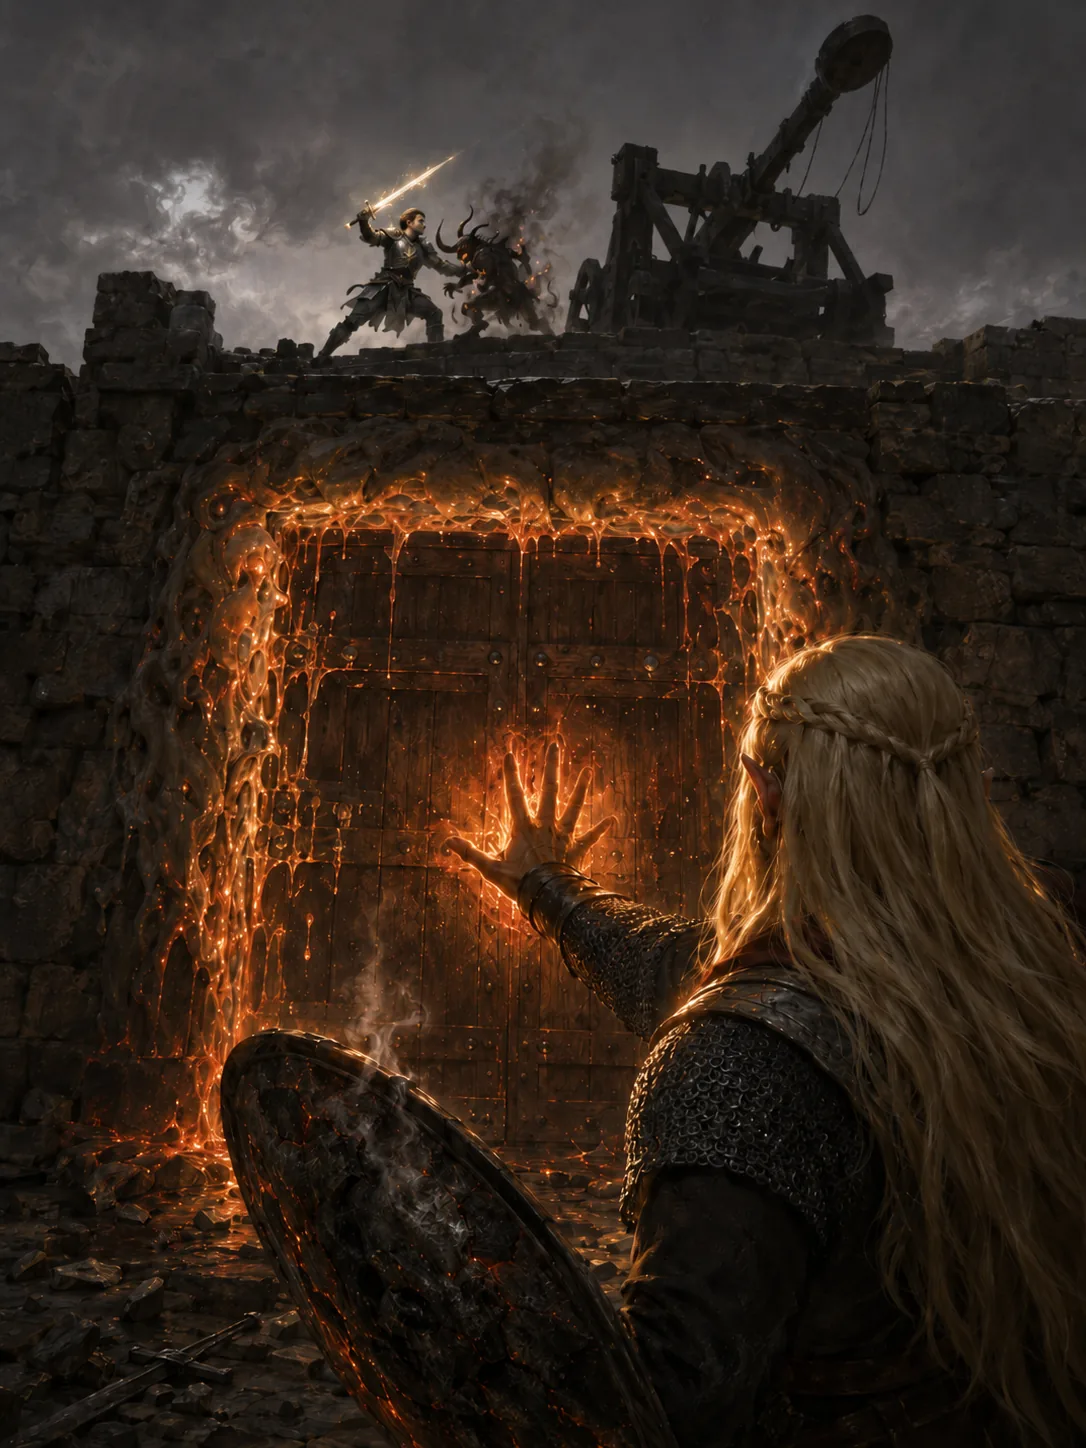
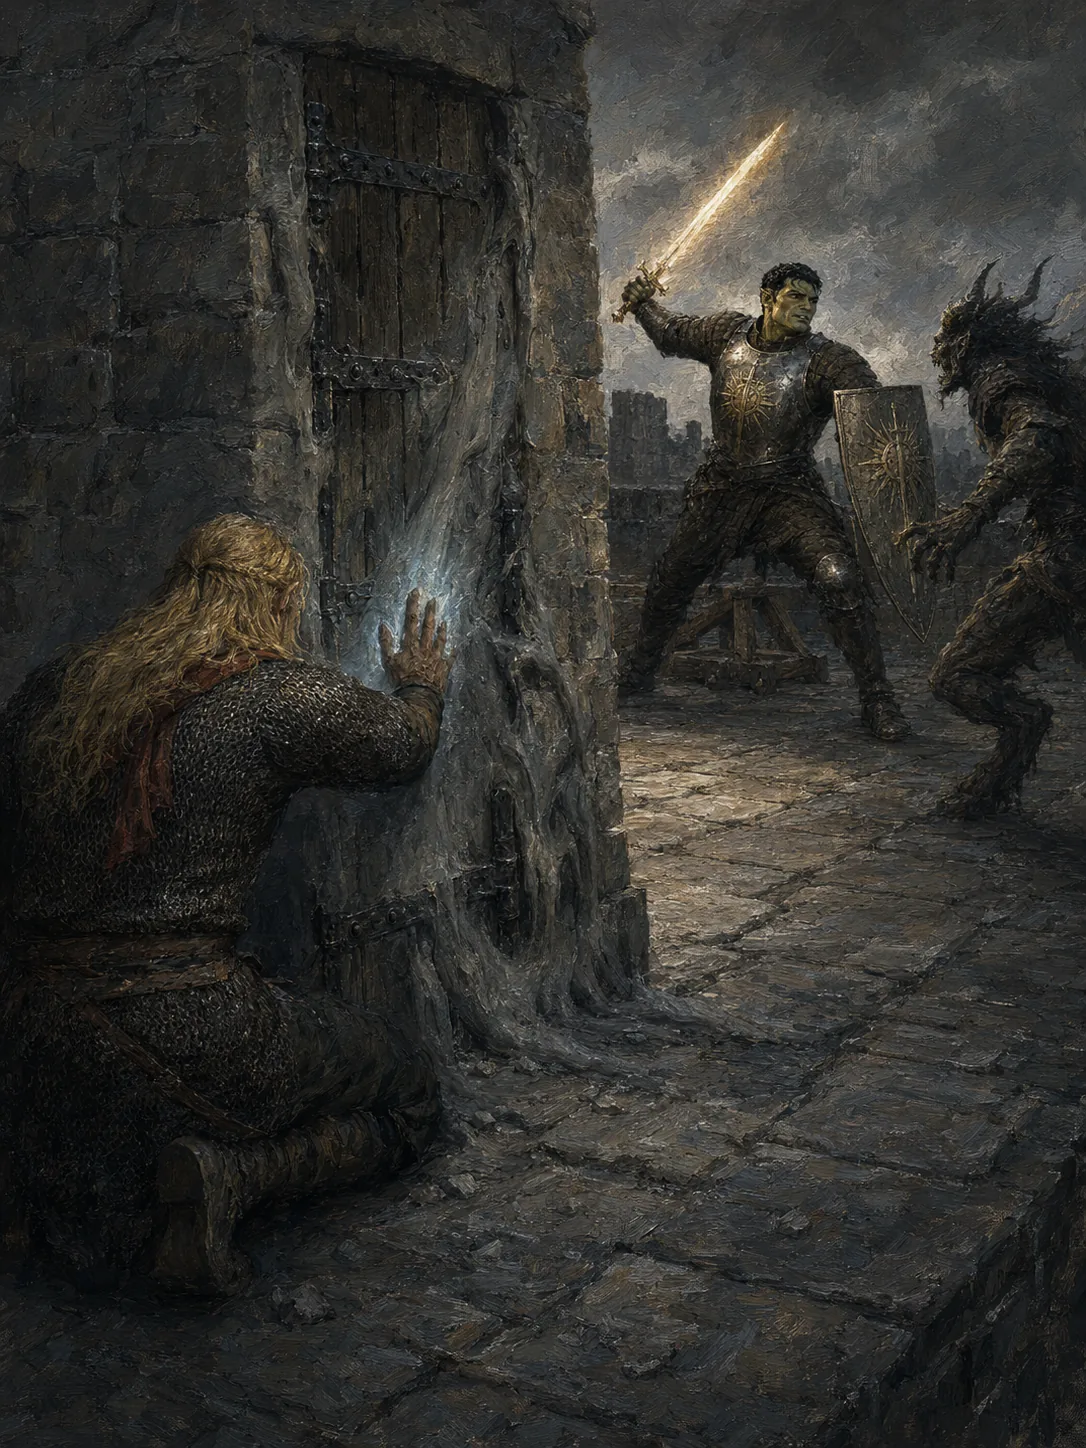
Re-roll the doors as cold stone-shaping
The original drew the spell as lava -- molten rivulets, glowing seams,
running fire -- which is the model's idea of magic on masonry and not
what Varic does. He shapes stone. It is now dull grey masonry going soft
like wet clay, slumping and knitting over the hinges, jamb, sill and seam
with dust sifting down, no heat anywhere, and one small cold blue-white
glimmer at his palm. Radiance is the only warm light in the frame.

Harlock is recognisable at last: reference attached, green skin lit from
below, Era III kit -- battered steel breastplate over a padded gambeson,
the steel shield of blinding, no golden plate. Sword-and-sun checked
magnified on both breastplate and shield; hilt at top, point at bottom,
not inverted.

The chapter corrected the reroll note's geography. The prose puts the
doors at the head of the tower's spiral stair with the demons on the
tower top, so Harlock fights on the same deck a few paces behind Varic
rather than on a parapet above him -- which makes him legible by
construction instead of by zooming.

First roll fused his shield and breastplate. Fixed by building the
armour outward in named layers and swinging the left arm out from the
body so the shield has clear air around it.

diff --git a/bible/07-art-reroll-list.md b/bible/07-art-reroll-list.md
@@ -20,36 +20,6 @@ with a counter-example.
 
 ## To do
 
-### `the-doors-that-would-not-open.webp` — **Harlock unconvincing, and the style is wrong**
-*Book II Ch. IX, "The Silencing of the Catapults" — while the fight rages above him, Varic kneels at
-an ironbound door and makes it stop being a door at all.*
-**Note the filename is plural — `the-doors-…`, not `the-door-…`.** Keep it; both the chapter and the
-search index reference it by name.
-
-**Harlock does not read as Harlock.** He is a small distant figure on the parapet, and at that size
-nothing identifies him: **no green skin**, no half-orc features, and silvery-white plate instead of
-his Era III kit. Two fixes, and they combine — **bring the parapet fight closer and larger** in the
-upper frame so there is a face to recognise, and **attach `harlock.webp`** and give him the anchors
-that survive at distance: green skin catching the gold of *Radiance*, the big solid build, the
-battered **plain steel breastplate over a padded gambeson**, and the **steel shield of blinding**
-blazoned with Iomedae's sword-and-sun. **This is Era III** — before *The Citadel's Gauntlet*, so
-**no golden full plate**. *Radiance* is awake by now and may blaze.
-
-**Style:** the frame is a saturated orange bath of molten rivulets — spectacle where the house look
-wants a muted earthy picture with **one** placed accent.
-
-**And the spell is drawn wrong, which is the deeper problem.** Varic **shapes stone**; he does not
-melt it. Lava, running fire and glowing seams are the model's own idea of "magic on masonry" and they
-misrepresent what happened. Render it as **stone behaving like wet clay**: dull grey masonry flowing,
-slumping and knitting over the hinges, the sill and the seam until the door is a slab of wall — soft
-folds in cold stone, dust sifting, no heat anywhere. Keep the **single accent** small and cold at his
-palm, and let *Radiance* above be the only warm light in the frame. Put `lava, molten rock, glowing
-orange seams, running fire, melting stone, embers` in `Avoid:`.
-
-**Keep:** the composition is good and unusual — Varic large in the near foreground with his back to
-us, the door filling the frame, the fight small and desperate on the parapet above. That framing is
-also why he needs no reference for his face, which is out of shot.
-
 ### `the-taking-of-the-ford.webp` — **the charge reads as wallpaper, and Rabiah is missing from it**
 *Book II — a hundred armoured horse come out of the concealing ground into the tiefling encampment at
 the West Sellen ford. Caption: "Surprise!"*
@@ -201,6 +171,30 @@ Regenerate to the humble kit, or accept the drift and note it as accepted.
 ---
 
 ## Done
+
+### `the-doors-that-would-not-open.webp` — re-rolled Aug 2026
+*Book II Ch. IX, "The Silencing of the Catapults".*
+
+The original was a saturated orange bath of molten rivulets with Harlock an unrecognisable silvery
+speck on a distant parapet. Rebuilt from scratch: the spell is now **cold**, dull grey masonry
+slumping and knitting like wet clay over the hinges, jamb, sill and seam with grey dust sifting
+down, and the only glimmer is small and pale blue-white at Varic's palm. *Radiance* is the single
+warm light in the frame and everything it does not reach falls to cold blue-grey. Harlock is in his
+Era III kit with the sword-and-sun on both breastplate and shield, checked magnified and correctly
+hilt-up.
+
+**The chapter fixed the framing problem, and this generalises.** The entry said to bring the
+*parapet* fight closer; the prose actually puts the doors *"at the head of the tower's spiral
+stair"* with the demons crowding *"the tower top"* — so Harlock is on the **same deck**, a few paces
+behind Varic, and never was above him. Staging it that way made his legibility structural instead of
+a matter of zooming. **Read the passage before trusting a re-roll note's geography.**
+
+**Harlock's shield and breastplate fused on the first roll** — a shield floating free of the arm and
+plate overlapping the upper arm. Adjectives would not have fixed it; what worked was *building the
+armour outward in named layers* (gambeson with full sleeves → breastplate covering **torso only**,
+edges stopping at armpit and shoulder joint → vambraces) and *swinging the left arm down and out
+away from the body* so a clear span of empty air separates shield from chest. **Give a fusing pair
+somewhere to not touch.** Both failures went into `Avoid:` verbatim.
 
 ### `the-burning-sky.webp` — re-rolled Aug 2026
 *Book I, "The Sundered Sky".*
